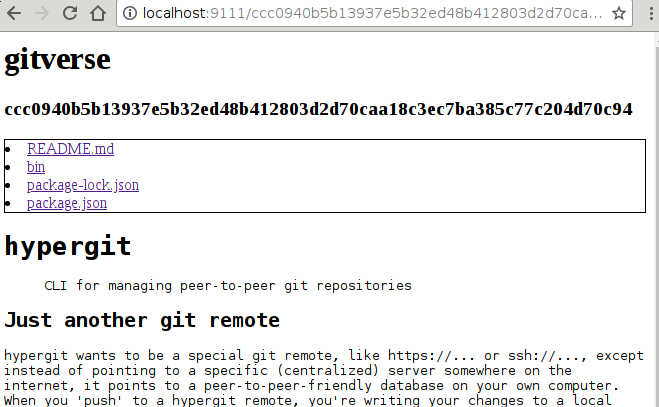
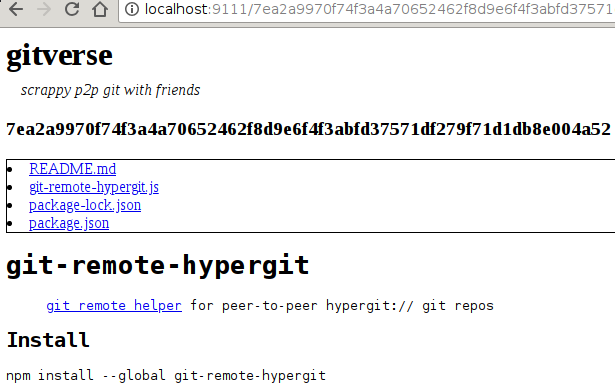
screenshot & tagline

Changed region(s): [[0.0, 0.0, 1.0, 1.0], [0.0, 0.7712, 0.8033, 0.8329]]

diff --git a/index.js b/index.js
@@ -40,7 +40,7 @@ function serveRoot (req, res, state, m) {
   return pull(
     cat([
       writeTitle(),
-      pull.once('<p>Local repositories:</p>'),
+      pull.once('<p><b>Local repositories:</b></p>'),
       writeRepos(state.dbs)
     ])
   )
@@ -60,7 +60,7 @@ function serveBlob (req, res, state, m) {
 }
 
 function writeTitle () {
-  return pull.once('<h1>gitverse</h1>')
+  return pull.once('<h1>gitverse</h1><p style="margin-top:-13px; margin-left:15px"><i>scrappy p2p git with friends</i></p>')
 }
 
 function writeRepos (dbs) {
